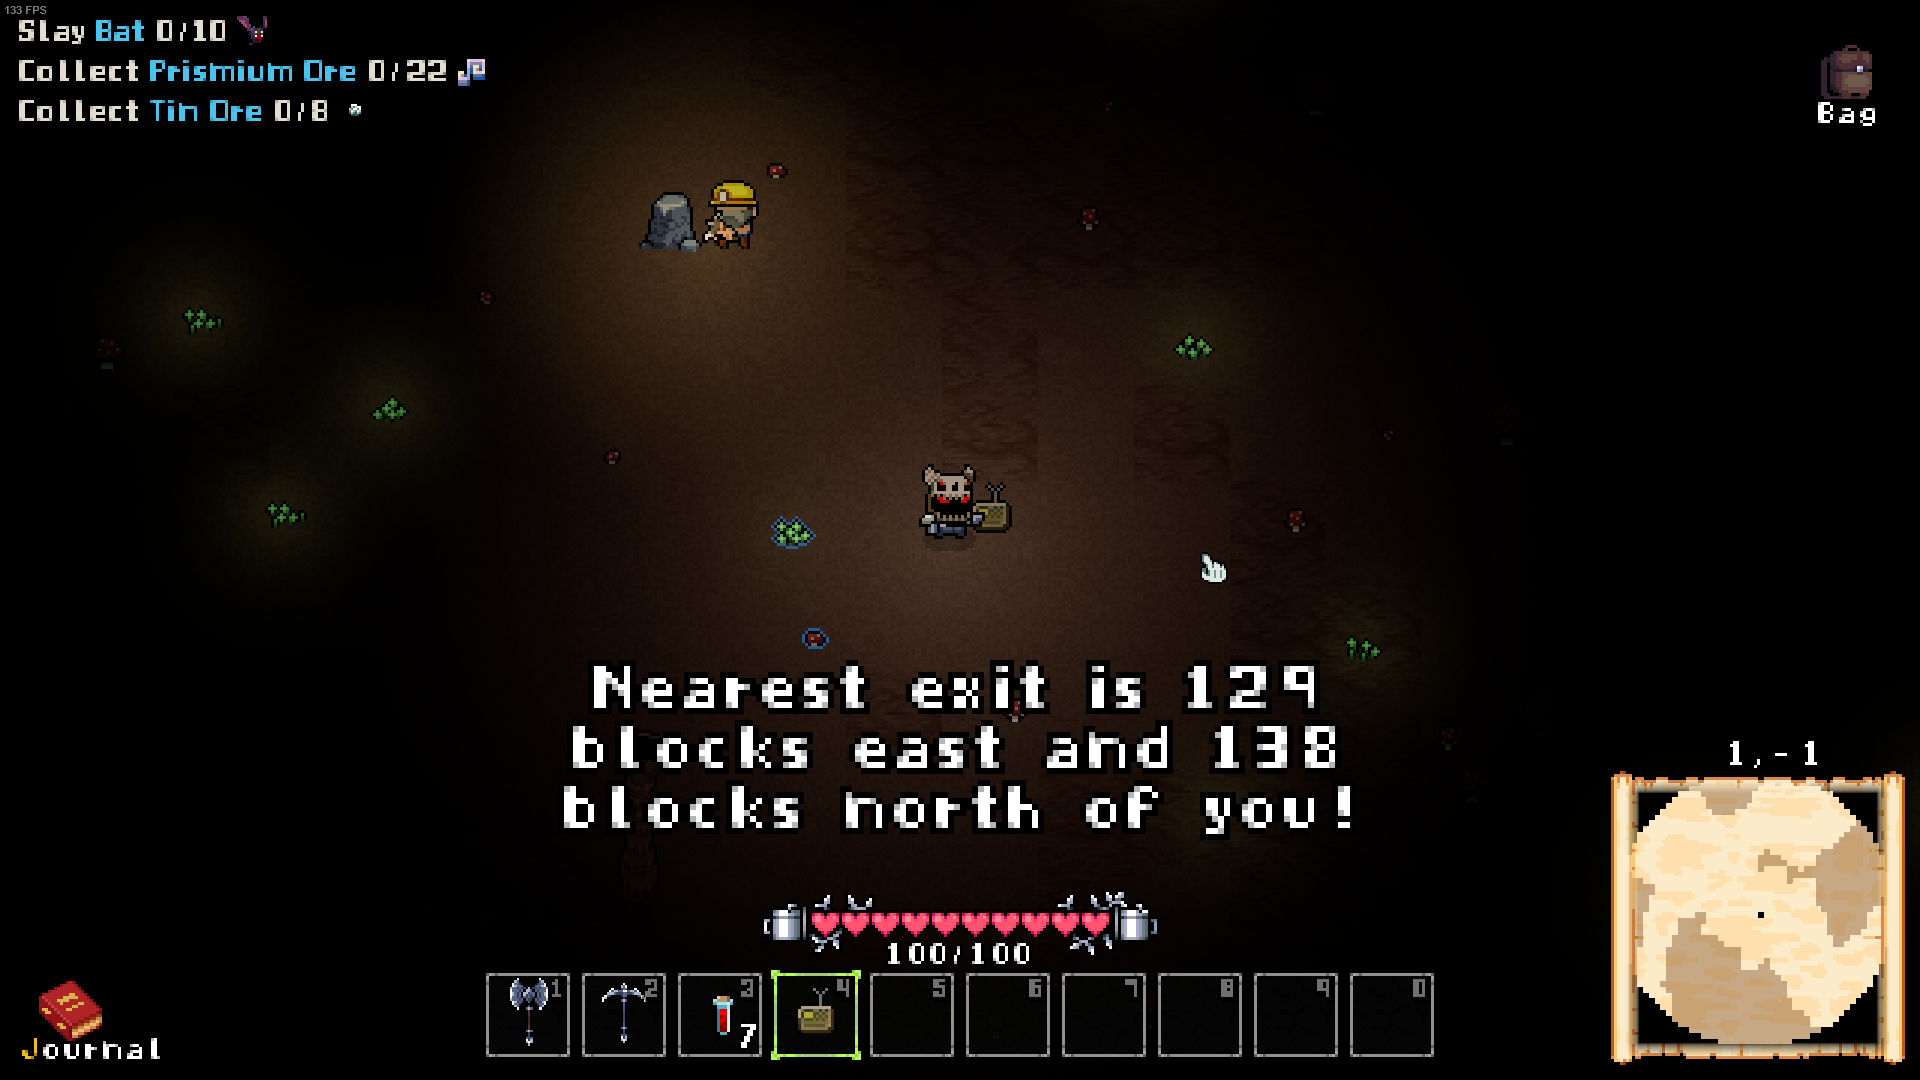
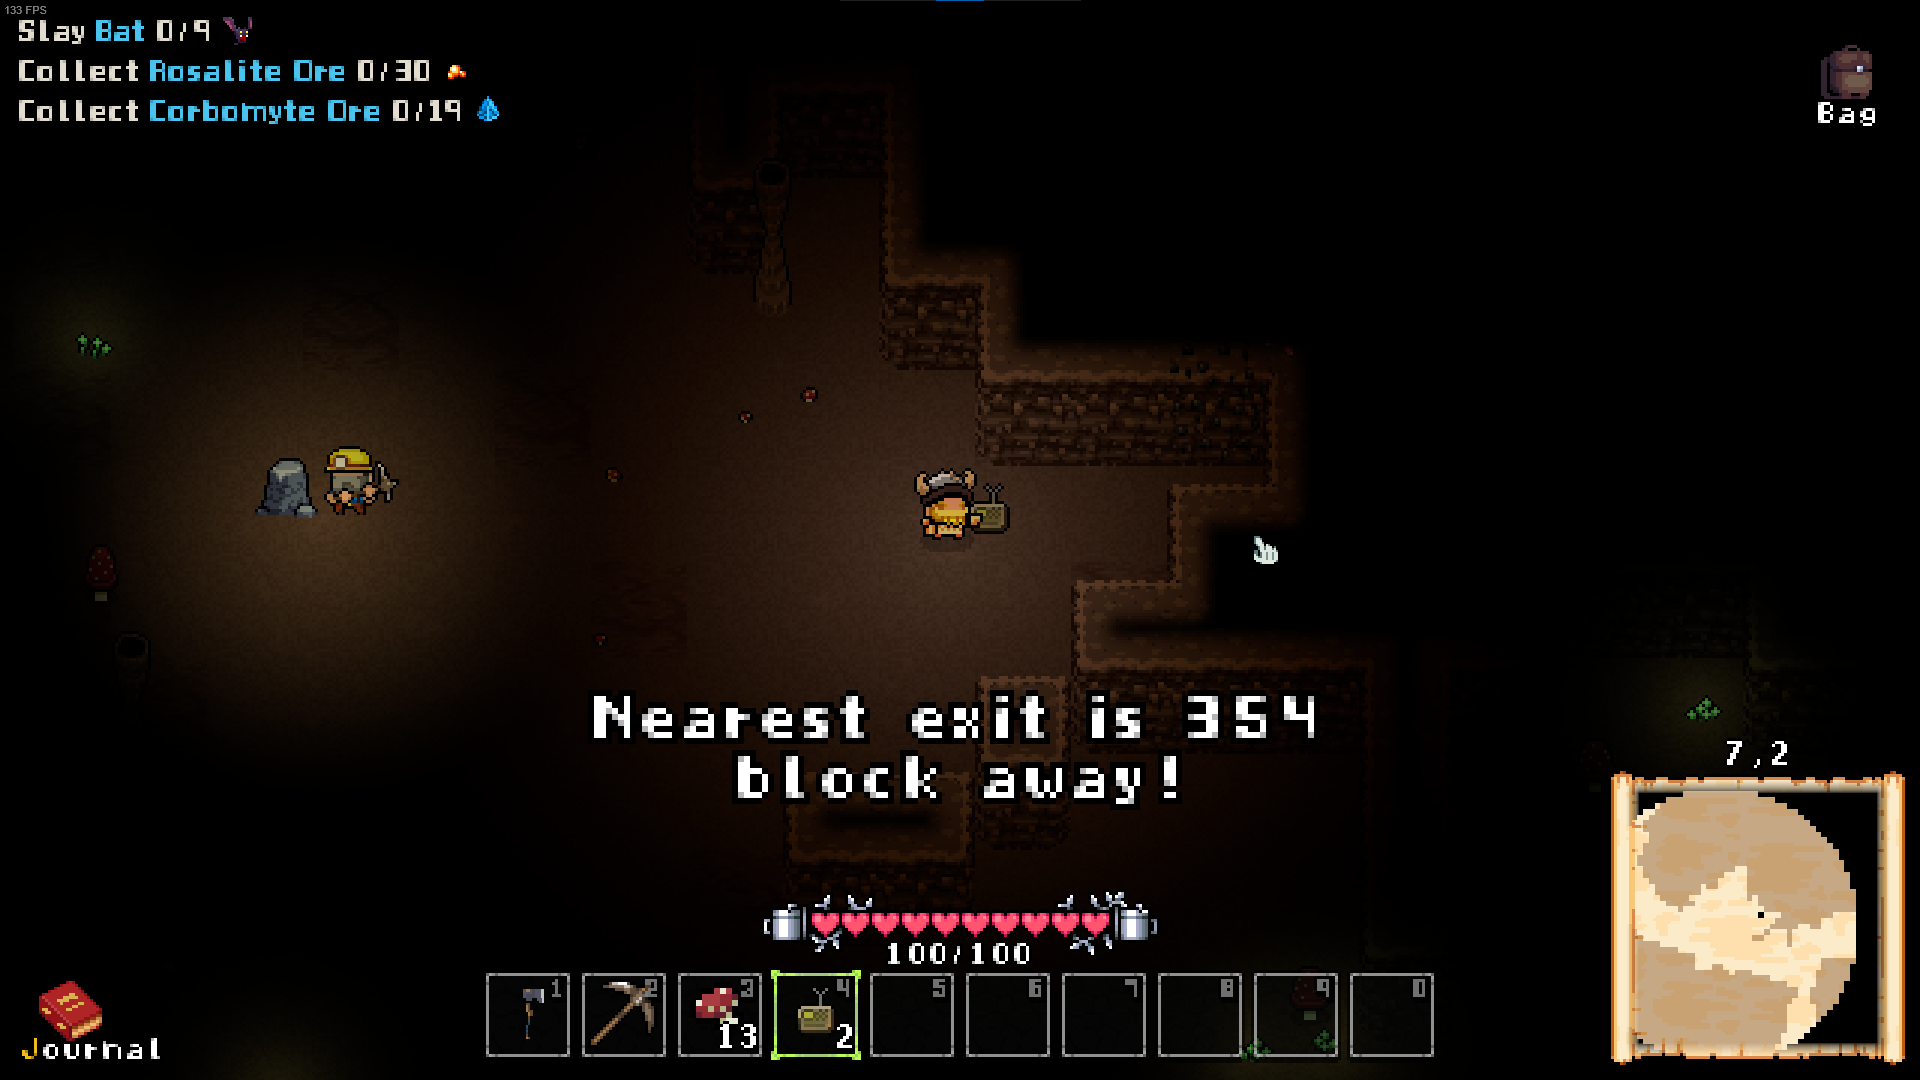
Release 0.2.0

diff --git a/ToTheCore/Plugin.cs b/ToTheCore/Plugin.cs
@@ -7,7 +7,7 @@ namespace ToTheCore {
     public class Plugin : BaseUnityPlugin {
         public const string PluginGUID = "com.maxsch.BelowTheStone.ToTheCore";
         public const string PluginName = "To The Core";
-        public const string PluginVersion = "0.1.0";
+        public const string PluginVersion = "0.2.0";
 
         public static ManualLogSource Log { get; private set; }
 

diff --git a/Readme.md b/Readme.md
@@ -1,11 +1,7 @@
 # To The Core
 
 Adds a radar item that shows the nearest exit to the player.
-Crafted with 40 tin, 40 copper and 40 iron.
-
-Please be especially careful when using this mod.
-Currently, the game will thrown an error when loading an save file where an item is missing and won't load it.
-Make sure to backup your save files before using this mod.
+Crafted with 10 tin, 10 copper and 10 iron.
 
 ![ShowcaseCrafting](Docs/ShowcaseCrafting.png)
 
@@ -42,6 +38,10 @@ This mod requires BepInEx to work, it's a modding framework that allows multiple
 
 
 ## Changelog
+
+0.2.0
+- Changed the radar text to only show the distance, not the exact direction
+- Changed the recipe to require 10 ingots each, with a resulting stack size of 3
 
 0.1.0
 - Release
